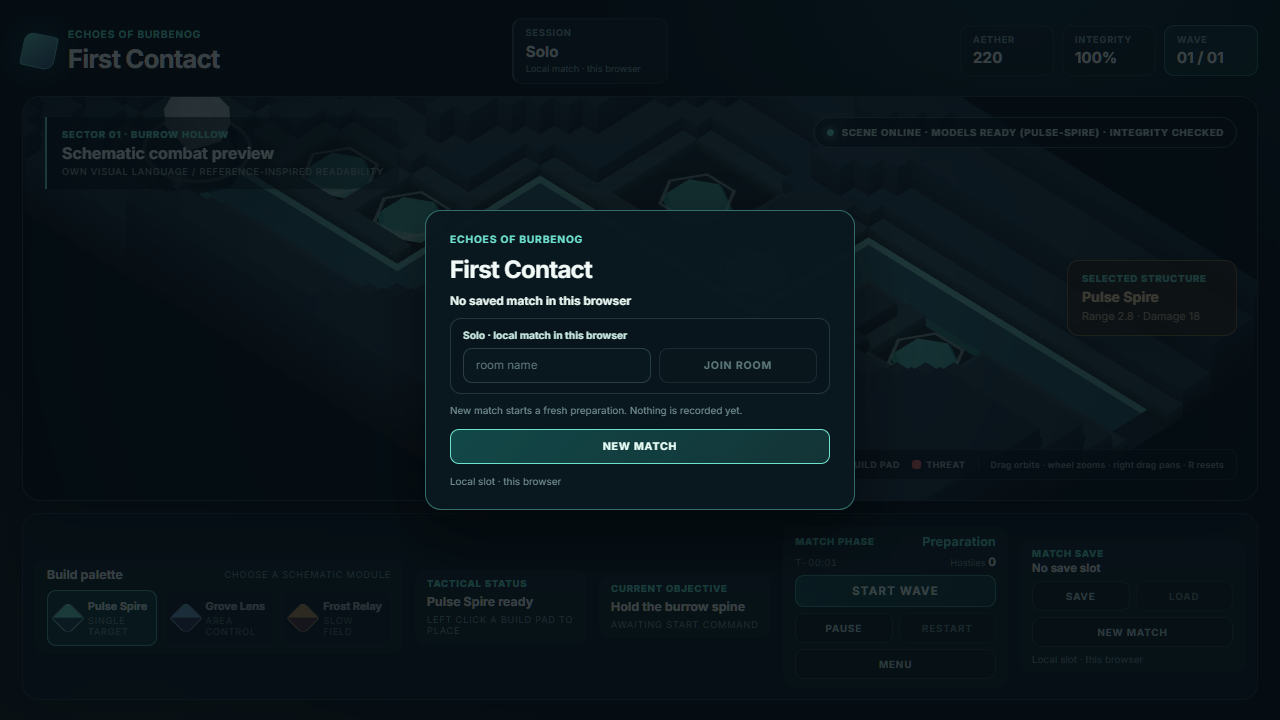
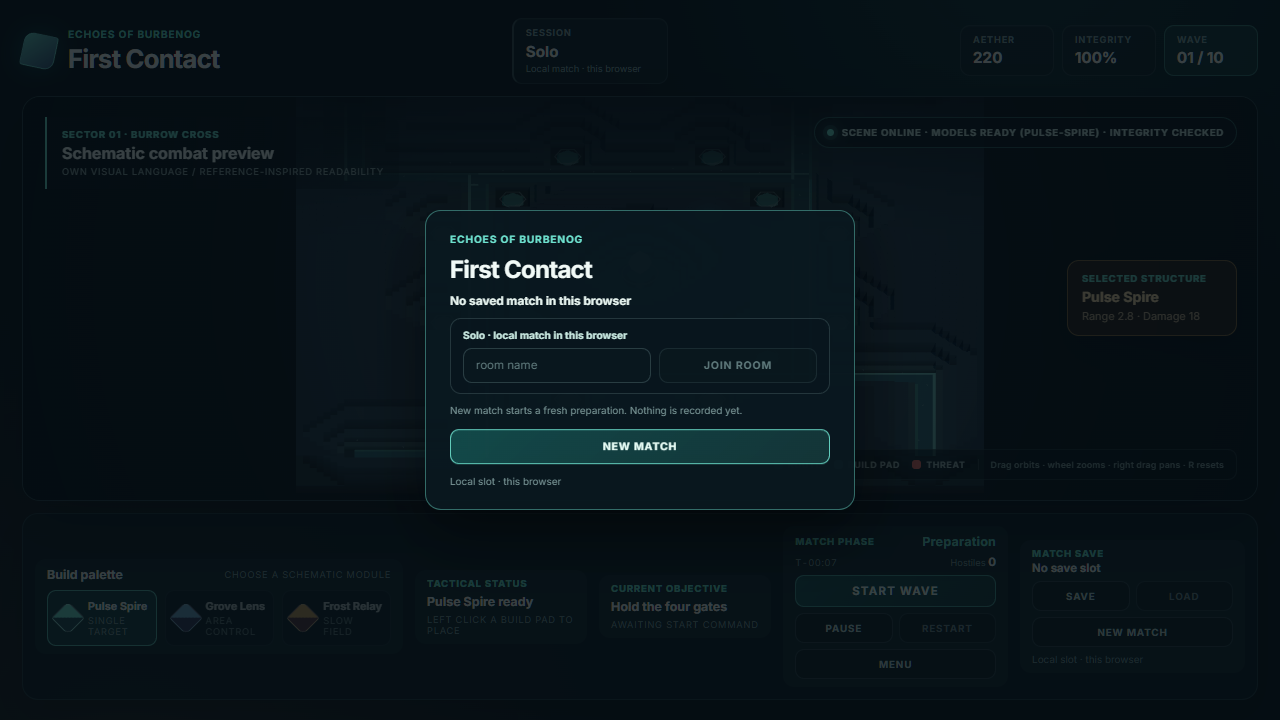
Закрыть заход: полный прогон, своя игра на сборке, снимки и честный README

diff --git a/docs/CONTEXT.md b/docs/CONTEXT.md
@@ -98,8 +98,8 @@
 | EOB-041 | P1 | **Панорама камеры не двигает картинку.** Нашла `0032`, подтверждено чтением кода: жест пишет `cameraRig.targetX/targetZ` с клампом и `lookAt` на них смотрит, но `applyCameraRig` ставит границы фрустума на `centerX/centerY` из `measureCorridor()`, то есть всегда центрирует кадр на коридоре, и сдвиг цели гасится. Правый драг, который подписан на пан, не делает ничего, и seam показывает честную цель (6.98, 4.32) при неподвижной картинке. Не регрессия `0031` — его коммит меняет тут только `FRAME_MARGIN`. Файл `src/main.ts`, сессиям заморожен |
 | EOB-042 | P0 | **Механика «пропусти и убей на следующем круге» на этой карте мёртва, и это не настройка, а структура.** Нашла `0026`, подтверждено замером штаба: `selectTarget` бьёт по врагу, прошедшему дальше всех, поэтому враги умирают в порядке появления, а пройти полный круг и выжить не может никто, кроме босса — доска выдаёт около 2270 урона за круг, а следующий за боссом тяжёлый вид, `carapace`, 253. Измерено: 0 пропусков на волнах 1–9, один на десятой. То есть `circuit: true`, ради которого весь заход и делался, платит только босс, и решение владельца из захода не работает. **Рычаг назван, и он в замороженном `simulation.ts`:** если бить по врагу, прошедшему меньше всех, лидер доживает до конца и пропускает круг — и тогда покрытие дороги становится главным, что вообще решает игрок. Это решение владельца, а не правка |
 | EOB-040 | P1 | **Читаемость упирается не в камеру, а в отношение размера карты к размеру существа.** После `0031` игровой масштаб 17.19 px на единицу, хаск 0.80 единицы = 13.8 px, его полоска 0.6 = 10.3 px. Потолок при целой дороге в кадре 2.28× даёт 20.4 px, и **до 25 px хаск не дорастает ни при каком кадре** — то есть либо 13.8 принимается как есть, либо уменьшается карта, либо увеличиваются существа. Три рычага и ни один не камера: `scenario.ts` (карта, четыре подвода — это 28.8 из 104 единиц круга, и ни одна ниша их не видит, то есть почти треть круга проходится вслепую), `enemies.ts` (семь значений `scale` в таблице, хаск 0.5), `tools/look` (инструмент, приведён в порядок). **Файл `src/client/enemies.ts` не в чьей-то владении** — сессия `0027` закрыта, и это первая работа по «что видно», которая ждёт решения владельца, потому что увеличить существо в полтора раза — это изменить вид, который `0022` и `0027` приняли |
-| EOB-037 | P2 | **Тринадцать кадров экранов входа и комнаты в `docs/screenshots/` старые** и не соответствуют ни одному кадру текущего дерева: пересняты шесть ключевых, остальные остались с `0016`–`0018`. На них ссылается `README.md`. Восемь кадров новой карты лежат в `docs/tasks/0025-map-cross/` и закоммичены как свидетельство приёмки, но в публичный набор не идут: карта ещё менялась, и менялась ещё дважды — `0029`, `0030`, `0031`. Снимать заново имеет смысл после `0026` и решения по `EOB-040` |
-| EOB-038 | P1 | **Смена карты ломает 48 сценариев E2E и закреплённые значения `test:core` (`tick 401, gold 229`, маршрут `burrow-spine`, пады `niche-*`).** Оба привязаны к геометрии коридора 22×14. Владелец 2026-09-28 ответил «пока ничего не делай, жди результатов сессий», поэтому работа не выдана и лежит здесь. Вместе с этим уезжает класс `EOB-027`. Сценарий `scripts/check-simulation.ts` — файл штаба, чинить после приёмки `0025`; сессиям он заморожен, и `0026` это назвала правильно. С `0025` он упал раньше этих строк: `normalizeConfig` валит волну, ссылающуюся на снятый `burrow-spine`, и это лечится волнами `0026` |
+| EOB-037 | Закрыт 2026-09-29 | **Публичный набор снимков приведён к текущему дереву.** Восемнадцать кадров со старой карты 22×14 и старой волны удалены, снято пять новых с production-сборки. Восемнадцать удалённых кадров возвращаются из истории git, когда слой сессий вернётся |
+| EOB-038 | P1, замерено | **Смена карты ломает 48 сценариев E2E и `test:core`.** Замерено на приёмке захода 2026-09-29: **9 из 48 зелёные, 39 красные, и все 39 одного класса** — набор написан под карту 22×14 и прежние имена падов. 33 падают на `pad niche-corner has no screen position` (имя переименовала `0025`), 1 ждёт один маршрут вместо четырёх, 1 ждёт 32 объекта вместо 12, 2 читают позицию несуществующего пада. `test:core` красный на том же `niche-corner`. **Живых регрессий в наборе нет** — проверено классификацией всех текстов ошибок, а не подглядыванием. Вместе с этим уезжает класс `EOB-027`. Владелец 2026-09-28 ответил «пока ничего не делай, жди результатов сессий»; результаты пришли, и решение по объёму остаётся за ним: перевести геометрию на контент вместе с проходом по классу `EOB-027`, или сократить набор. `scripts/check-simulation.ts` — файл штаба |
 | EOB-016 | P2 | Asset contract валидирует только модели, собранные генератором, и проверяет структуру, а не источник; модели из внешнего редактора потребуют отдельного контура проверки и provenance |
 | EOB-017 | P2 | Замер fixed-step clock в E2E идёт сразу за fullPage screenshot и меряется через round-trip: stall >500 ms даёт ложный fast-forward. Наблюдалось на холодном прогоне и на загруженной машине; лечится переносом измерения внутрь страницы. С `0014` pause/resume переведены на page-side отметки, с `0016` — сценарий Load; остальные измерения часов в suite надо проверить тем же способом. С `0017` 29 сценариев suite ждали canvas с дефолтными 5 s — это та же ошибка формы, только про boot, и она уехала в `EOB-025`. С fix `0018` закрыт ещё один случай того же класса: сценарий подтверждённого `New match` держал свежую preparation «на нулевом тике» решёткой кадров в 1 мс, а это утверждение о том, сколько времени занимает чтение извне; прибытие теперь читается отметкой в странице, и решётка из сценария слота ушла. Соседний сценарий — подтверждённый `New match` в `clears the slot only after a confirmed New match…` — остался на `QA_FROZEN_FRAME_SECONDS` и остаётся кандидатом на ту же правку |
 | EOB-020 | P3 | У тика в слота сохранения нет верхней границы: content её не задаёт, а правдоподобный, но огромный тик даёт долгую пересборку вместо отказа. Видно по идущему тику и badge прогресса, `New match` прерывает в любой момент. Если понадобится, граница берётся из content, а не выдумывается. С `0016` вход показывает тик слота до того, как игрок что-то с ним сделает, а стирание требует второго нажатия — но сама граница по-прежнему не введена и задача открыта |
@@ -201,6 +201,7 @@
 | 2026-09-28 | **Выданы четыре параллельно, и номера у замороженного блока сняты.** Владелец сказал «выдавай, если не будет конфликтов», и конфликтов нет: `0026` (`contact.ts`), `0030` (`client/map.ts`), `0031` (`main.ts` + `tools/look/look.ts`), `0032` (`game-core/scenario.ts`), порты 5175/5174/5176/5177, все свободны. **Ловушка нумерации закрыта окончательно:** замороженный блок мультиплеера и desktop держался за номерами `0030`–`0035`, и всякий раз, как он занимал `0030`, следующая настоящая работа упиралась в правило «последний принятый плюс один». Номера с блока сняты, он остался списком без номеров, и номер даёт работа в момент выдачи. Черновик лежит под прежним именем, имя номера в нём ничего не значит. **`0026` возобновлена, её первый шаг — три строки:** волны зовут `burrow-spine`, которого на кольцевой карте нет, `normalizeConfig` падает до появления seam, и потому страница не грузится вовсе — последние две сессии снимали кадры в read-only копии через `git archive` с подменой в копии, а игрок не может играть. Пока это не починено, приёмка по глазам невозможна ни для кого, поэтому шаг прошит первым пунктом задания. **Что не выдано и почему — записано, чтобы не потерялось:** чтение `check-simulation.ts` и 48 сценариев (`EOB-038`) — тянет за собой и камеру, и форму волн, раньше времени будет переделано дважды; `EOB-031` с полоской здоровья — за камерой, на 11.2 px на единицу их не видно вовсе |
 | 2026-09-28 | **Приняты `0030` и `0031`, и на приёмке `0031` пересчитано число, которое я три раза повторял владельцу.** `0030`: три содержательные строки в `map.ts` — `walkCount` (сколько раз прошли) заменён на `routeCount` (сколько **маршрутов** содержат сегмент), каждая часть кольца кладёт своё множество, комментарий приведён в соответствие и объясняет, почему счёт проходов здесь лжёт: `circuit` проходит свой подвод туда и обратно внутри одного маршрута. Замерено своим кодом: контур 4 сегмента и подвод 8, что и ожидалось, петля контура собралась замкнутой из 5 точек вместо 7-точечной незамкнутой, лент в сцене стало 5 вместо 1, bbox контура ±10.00 = 9.4 + 0.6. **Множество дороги не двинулось:** 132.8 в 12 сегментах, растр 1408 клеток, покрытие всех двенадцати ниш совпало до сотой, то есть починен рисунок, а не геометрия. Проверено штабом по диффу. **Сессия пересняла кадры сама и честно объяснила почему:** три соседние сессии писали в общий каталог прямо между её прогонами, и первые кадры мерили чужую работу вместе с её — признак `wallBlocks` 235 → 218 при неизменных 1408 открытых клетках; снято с двух read-only копий, различающихся ровно одним файлом по хешу, волна в обоих прогонах на тике 300 и координаты 16 врагов совпали побитово. Это выше всего, что я делал на приёмках. **Замечено:** в сообщении коммита перепутано направление — «ленты в сцене 1 вместо 5», то есть наоборот; в публичном репозитории это остаётся, переписывать историю не будем. `0031`: азимут по умолчанию 45° → 0°, то есть ось симметрии карты вместо диагонали, где четыре подвода смотрят в камеру и растягивают глубину дороги в 1.41 раза, и поле кадра 1.2 → 1.1 как наименьшее, при котором все двенадцать ниш в кадре на восьмидесяти измеренных положениях. Игровой масштаб **11.19 → 17.19 px на единицу**, фрустум 110.31×36.03 → 71.77×23.44. Три инварианта измерены, а не заявлены: масштаб не плывёт на восьми драгах 0 → 204.6°, кадр по-прежнему меряется по `corridorSamplePoints`, перекрытия скалой 104/960 без изменений. Цена названа: между осями симметрии уходит конец подводов (0.8% точек дороги, 7.9% на 60°), ниша уходит из кадра на 62°+ (24 из 3456, на 80 положениях `0029` — 0 из 960), дорога возвращается колесом от зума 1.82. Лист-образец приведён к правде: дефолт 17.19, ярлыки `game` и `loupe`, подпись говорит, что это не «масштаб матча». **И главное: гипотеза штаба не подтвердилась, и сессия это не смягчила.** Я записал, что мелко из-за подгонки по каналу, — габарит плиты даёт 0.85×, то есть **меньше**, а не больше; потолок в том, что карта 2:1 показана в канве 3:1. **Сессия принесла третью находку, которая пересчитала мои числа, и она неверна:** «авторские размеры в `CONTEXT` вдвое меньше нарисованных, хаск 0.78 против 1.6». Штаб проверил на листе-образце при `?scale=100`: полоска здоровья вышла **ровно 60 пикселей**, а её `barWidth` в таблице 0.6, значит табличные числа и есть нарисованные, и хаск при том же масштабе вышел около 80 пикселей, то есть **0.80 единицы, а не 1.6**. Единица 1.6 взята с геометрии до применения `rig.scale` (в таблице у хаска `scale: 0.5`, и `rig.scale.setScalar(look.scale)` в `enemies.ts`). **Следствие, которое меняет решение:** настоящий потолок камеры жёстче, чем я тебе сказал. При 17.19 хаск 13.8 px, при потолке 2.28× с дорогой за краем кадра — 20.4 px, и **до 25 px не дорастает ни при каком кадре**. Значит «камера слишком далеко» было неверной постановкой: камера сделана и упёрлась в канву, а остаток — это отношение размера карты к размеру существа, и ни один из трёх рычагов не про камеру: уменьшить карту, увеличить существа (семь значений `scale` в таблице, хаск 0.5), или принять 13.8 px. Заведено `EOB-040`, и `EOB-039` закрыт как частично закрытый с записанной неверной гипотезой. Плюс из отчётов `0026`: **28.8 из 104 единиц круга — это подводы, и ни одна ниша их не видит**, то есть почти треть каждого круга проходится вслепую; и суммарное покрытие двенадцати ниш 49.63 единицы дороги на дальности Pulse, 21.31 на Grove, 57.15 на Frost |
 | 2026-09-28 | **Приняты `0026` и `0032` — игра заработала, и заход упёрся в то, что сам же и чинил.** `0026` первым делом починила три строки, которые блокировали всех: волны зовут четыре настоящих маршрута, `normalizeConfig` перестал падать, страница грузится и в неё можно играть. Потом десять волн по семи видам, все четыре базы из одного `fromEveryBase`, воздух с седьмой волны, босс с одной базы на десятой, и полный проход через настоящий интерфейс — клик по палитре, клик по паду, старт волны, победа, консоль чистая. **Штаб перемерил волны своим инструментом, отдельно от сессии:** золото сходится до единицы — 855 дохода, из них 540 наград за убийства и 315 за волны, 220 на старте, 295 в конце; утечки ноль на волнах 1–9 и одна на десятой, ядро 6/10; доска двенадцати башен закрывается на девятой волне. Всё как в отчёте. **Разошлась длина матча, и это важно: 10.04 минуты — лучшая сборка, а не типичная.** Моя жадная раскладка, двенадцать `grove-lens`, даёт **13.54 минуты**, и сессия сама пишет про 13.8–15.4 на frost-сборках. Значит матч держится в коридоре 10–15 минут в зависимости от того, что построено, и 8–11 выполняются только на части сборок. **Развилка про золото оказалась ложной:** «около 1000» и «доска не раньше восьмой волны» не конфликтуют, потому что доска стоит 600–840 при доходе 1075 и закрывается на девятой. Оба числа выполнены, решать тут нечего и поднимать награды не нужно. **А вот что реально сломано, и это моё решение захода, а не её работа:** `circuit: true` платит только боссу. Башня бьёт по врагу, прошедшему дальше всех, поэтому враги умирают в порядке появления, доска выдаёт около 2270 урона за круг, и пережить круг не может никто, кроме босса — следующий тяжёлый вид `carapace` 253. Механика «пропусти и убей на следующем круге», ради которой кольцо и замыкалось, в игре не существует: ноль пропусков на девяти волнах из десяти. Рычаг назван и он в одну строку замороженного `simulation.ts` — бить по прошедшему меньше всех; тогда лидер доживает, пропускает круг, и покрытие дороги наконец становится главным решением игрока. Заведено `EOB-042`, решение за владельцем. Сессия этого не починила и не сгладила, а прямо написала, что не её файл. **Сессия публично отозвала своё ложное обвинение:** она сказала, что seam врёт про покрытие гейта, и это было неверно — гейт переехал силами `0032`, seam с её замером совпадал до десятой всё время, и «мёртвая Grove на гейте» была тем же расположением на старой позиции; все зависимые числа пересчитаны, матч не сдвинулся ни на тик. **Сторонняя находка, записана и не тронута:** панорама камеры не двигает картинку — жест пишет цель с клампом, `lookAt` на неё смотрит, а `applyCameraRig` центрирует фрустум на коридоре и гасит сдвиг; seam показывает честную цель (6.98, 4.32) при неподвижной картинке, правый драг не делает ничего. Подтвердил чтением кода, `EOB-041`, файл штаба. `test:core` по-прежнему красный, теперь на `niche-corner` — имя пада переименовала `0025`, файл заморожен, и его падение сдвинулось с `normalizeConfig` до этой строки, то есть три строки `0026` его продвинули. **`0032` принята и проверена штабом независимо:** гейтовая ниша на (7.4, 7.4), `Grove Lens` видит 5.28 единицы дороги против 2.64 у фланка — ровно вдвое, и мой замер с дедупликацией сегментов даёт те же 5.28 против её 5.30. `(7.2, 7.2)` и `(7.6, 7.6)` отвергнуты с расчётом: пол рисуется не над теми клетками, что вырезаны, а на 7.6 двор сливается с дорогой и рвёт равенство кварталов (36/30/30/25 клеток). Кромка камня стала в одну клетку, и она та же самая, что у восьми фланков, так что тонкой кромки там нет: держат её светящаяя рамка и расстояние, а не толщина камня. Перекрытия 104 из 960, ноль на 32° и выше, совпало с `0029` до числа, хотя камера там была другая |
+| 2026-09-29 | **Заход закрыт: полный прогон, своя игра на собранной статике, снимки и честный README.** Штаб сделал то, что откладывал весь заход, — прогнал набор целиком, потому что четыре сессии делили каталог и он был красным по причинам, которые никто не мог назвать. **`test:assets` — те же 11 красных проверок, артефакт `sha256:32befa7a…` побайтово прежний. `test:core` красный на `niche-corner`. E2E: 9 из 48 зелёные, 39 красные, и все 39 одного класса** — классифицировал все тексты ошибок, а не стал смотреть на первые пять: 33 падают на `pad niche-corner has no screen position`, один ждёт один маршрут вместо четырёх, один ждёт 32 объекта вместо 12, два читают позицию несуществующего пада. Набор написан под прежнюю карту 22×14, и **живых регрессий в нём нет** — это сказано замером, а не optimism'ом. **Своя игра: собрал прод-сборку и поднял её статикой на своём порту, потому что на общем каталоге соседние сессии переписывали исходники и HMR пересобирал страницу между шагами — кадры так не снимутся, а собранный бандл это ровно то, что получает игрок.** Прошёл матч целиком через настоящий интерфейс: три `Grove Lens` на трёх гейтах со стартового золота, дальше докупал по мере прихода, каждую волну запускал сам, и получил **победу на десятой волне, 17 739 тиков = 14.8 минуты, двенадцать башен, ядро 6/10, консоль чистая.** Это моё третье независимое измерение длины матча, и три сходятся только в коридоре: `0026` дала 10.04 минуты на своей сборке, мой core-прогон на двенадцати `grove-lens` — 13.54, автоигра в браузере — 14.78. Значит «8–11 минут» не достигалось никогда, а достигается 10–15 в зависимости от того, что построено. **Снимки:** снято пять с production-сборки, восемнадцать старых удалены — все они показывали карту 22×14, которой больше нет, и в публичном репозитории это вреднее, чем пустота; из истории git они возвращаются. `README.md` переписан под факты и больше не врёт: вместо «правый драг панорамирует» написано, что панорама не работает (`EOB-041`), вместо «48 зелёных E2E» — реальные 9 из 48 с разбором, почему, вместо описания коридора — кольцо и десять волн, и добавлен блок «честно о нерешённом» из трёх пунктов, включая мёртвую механику круга (`EOB-042`). `EOB-037` закрыт. **Что осталось за владельцем и не сделано мной:** объём работ по `EOB-038` (чинить набор или сокращать), решение по `EOB-042` (одна строка в `simulation.ts` возвращает пропуск врага как механику, и тогда покрытие дороги становится главным решением), рамка длины матча 10–15 и `EOB-040` про размер существ |
 
 ## Структура проекта
 

diff --git a/README.md b/README.md
@@ -23,18 +23,41 @@
 
 ## Скриншоты
 
-| Вход | Середина волны | Победа | Replay с тем же seed | Восстановление после перезагрузки |
+| Карта `burrow-cross` | Середина волны | Победа | Гейтовая ниша | Вход |
 |:-:|:-:|:-:|:-:|:-:|
-| ![Вход](docs/screenshots/entry-screen-slot.png) | ![Середина волны](docs/screenshots/wave-combat-midwave.png) | ![Победа](docs/screenshots/wave-combat-victory.png) | ![Replay](docs/screenshots/vertical-slice-replay-reset.png) | ![Загруженный матч](docs/screenshots/vertical-slice-match-load.png) |
-| Страница открывается на входе, а не в preparation: слот назван тиком и числом команд, решение остаётся за игроком, матч за оверлеем не идёт | Route, build pads, combat log и HUD — проекция `MatchSnapshot` | Terminal state, `Sector secured`, `restart repeats this run exactly` | Тот же матч перезапускается по command log: `REPLAY · 0 / 4 COMMANDS`, палитра и Start Wave заблокированы | Тот же матч после настоящей перезагрузки страницы: слот хранит seed, content, тик и log, а `Continue` пересимулирует его до сохранённого тика |
+| ![Карта](docs/screenshots/burrow-cross-map.png) | ![Середина волны](docs/screenshots/burrow-cross-wave-midwave.png) | ![Победа](docs/screenshots/burrow-cross-victory.png) | ![Гейт](docs/screenshots/burrow-cross-gate-niche.png) | ![Вход](docs/screenshots/entry-screen-empty.png) |
+| 40×40, замкнутое кольцо, четыре подвода из четырёх углов, двенадцать ниш по три в квартале, ядро в центре вне дороги | Route, build pads, combat log и HUD — проекция `MatchSnapshot` | `Sector secured`, десять волн, `10 / 10` | Гейт видит 5.28 единицы дороги на дальности Grove Lens против 2.64 у фланка — вдвое, и это лучшее место на карте | Страница открывается на входе, а не в preparation: решение остаётся за игроком, матч за оверлеем не идёт |
 
-Остальные состояния входа — `entry-screen-empty.png` (пустой слот, единственное действие), `entry-screen-menu.png` (`MENU` поверх идущего матча), `entry-screen-confirm.png` (подтверждение стирания слота вторым нажатием), `entry-screen-narrow.png` (560 px) и `entry-to-victory.png` (полный путь от входа до победы). Кадры сессии лежат рядом: `session-room-entry.png` (вход в комнату), `session-room-live.png` (матч в комнате: полоса сессии и пустая панель MATCH SAVE), `session-room-menu.png` (`MENU` поверх комнаты), `session-room-narrow.png` (560 px), `session-room-guest.png` (гость: `Restart` и `End room` выключены с причиной), `session-room-restart.png` (owner перезапустил прогон, оба окна в новой preparation), `session-room-closed.png` (комната закрыта, вход называет причину), `session-room-reconnect.png` (вернувшийся по своему месту) и `session-room-shared.png` (поздний вошедший строит сразу, aether общий).
-
-Снимки — копии `test-results/`, которые снимает E2E-сьютка. Обновляются на приёмке задачи, меняющей картинку.
+Кадры сняты с production-сборки (`npm run build` плюс статический раздающий сервер), а не копированием
+из `test-results/`: на общем каталоге во время съёмки соседние сессии переписывали исходники, и
+собранный бандл — единственный способ снять кадр того, что игрок реально получает. Обновляются на
+приёмке задачи, меняющей картинку; старые кадры удаляются, а не копятся.
 
 ## Быстрый старт
 
-Реализовано и проверено следующее: карта-коридор (одна дорога с поворотами, пять ниш в массиве, ядро в тупике, ценность места — сколько коридора оттуда видно) и управляемая камера (драг вращает, колесо зумит, правый драг панорамирует, `R` сбрасывает; клик по нише не проходит сквозь камень). Дальше: 3D-ready сцена, schematic build pads, placement, combat presentation, pause/resume, replay по seed, локальный слот матча (вход симуляции, а не snapshot; Load — пересимуляция до тика слота), экран входа (Continue из слота или из идущего матча, подтверждение стирания, `MENU` без потери матча), authoritative session на Node (комната владеет `Simulation`, транспорт SSE плюс POST без новых зависимостей, версионированный handshake до первого тика, причина отказа принадлежит серверу, solo остаётся режимом по умолчанию) с местами и правами: токен места вместо аккаунта, роль `owner`/`guest` от комнаты, `Restart` и `End room` только у owner'а, закрытие комнаты вместо кика, reconnect как handshake плюс целый кадр без дельт, поздний вход действует сразу при общем aether. Плюс asset pipeline: собственная генерация GLB и budgets, per-material IBL, скелетная анимация. Проверено: `test:core`, `test:assets` и 48 зелёных E2E, включая одну комнату на двух настоящих browser context с разницей ролей.
+Реализовано и проверено следующее: карта `burrow-cross` (40×40, замкнутое кольцо, четыре подвода из
+четырёх углов, двенадцать ниш по три в квартале, ядро в центре вне дороги, ценность места — сколько
+дороги оттуда видно: гейт 5.28 против 2.64 у фланка) и управляемая камера (драг вращает, колесо зумит,
+`R` сбрасывает; клик по нише не проходит сквозь камень). **Известный дефект:** правый драг заявлен в
+подсказке как панорама, но не двигает картинку — цель камеры уезжает, а кадр центрируется на коридоре
+и гасит сдвиг (`EOB-041`). Дальше: 3D-ready сцена, schematic build pads, placement, combat
+presentation, pause/resume, replay по seed, локальный слот матча (вход симуляции, а не snapshot; Load —
+пересимуляция до тика слота), экран входа (Continue из слота или из идущего матча, подтверждение
+стирания, `MENU` без потери матча), десять волн по семи видам врагов с воздухом с седьмой волны и
+боссом на десятой, authoritative session на Node (комната владеет `Simulation`, транспорт SSE плюс POST
+без новых зависимостей, версионированный handshake до первого тика, причина отказа принадлежит
+серверу, solo остаётся режимом по умолчанию) с местами и правами: токен места вместо аккаунта, роль
+`owner`/`guest` от комнаты, `Restart` и `End room` только у owner'а, закрытие комнаты вместо кика,
+reconnect как handshake плюс целый кадр без дельт, поздний вход действует сразу при общем aether. Плюс
+asset pipeline: собственная генерация GLB и budgets, per-material IBL, скелетная анимация.
+
+Проверено: `test:assets` — те же 11 красных проверок, артефакт побайтово прежний; **E2E: 9 из 48
+зелёные, 39 красные, и все 39 одного класса** — набор написан под прежнюю карту 22×14 и прежние имена
+падов, 33 из них падают на `pad niche-corner has no screen position`, остальные ждут один маршрут
+вместо четырёх, 12 ниш вместо 5 и число объектов 32 вместо 12. Живых регрессий в наборе нет, но
+красный сигнал обесценен, и это `EOB-038`. `test:core` красный по той же причине, на `niche-corner`.
+Матч прогнан целиком через интерфейс на собранной статике: победа на десятой волне, 17 739 тиков,
+14.8 минуты, двенадцать башен, ядро 6/10.
 
 ```bash
 git clone https://github.com/AlexanderKuzikov/Echoes-of-Burbenog.git
@@ -77,13 +100,30 @@ npm run server   # в соседнем терминале; порт из src/pro
 | Development | Vite | verified |
 | Simulation | TypeScript core | verified |
 | QA | Playwright + core check + asset validator | verified |
-| Server | Node.js, сессии и комнаты (SSE + POST), dedicated server на Go | in work |
+| Server | Node.js, сессии и комнаты (SSE + POST), dedicated server на Go | verified, заморожен |
 | Desktop | Wails + Go | deferred |
 | Assets | glTF/GLB, свой генератор, budgets | verified |
 
 ## Статус
 
-**v0.1.0-alpha** — карта-коридор и камера поверх принятого browser bootstrap, pure deterministic core, snapshot projection, placement, combat presentation, pause/resume, seed replay, локального слота матча, экрана входа и authoritative session на Node с местами и правами. Игровой слой растёт по порядку «что видно»: сначала карта, потом камера, дальше прогрессия башен и волны. **Карта:** одна дорога `burrow-spine` на 26 единиц с четырьмя поворотами, пять ниш, вырезанных в массиве, ядро в камере в тупике; ниши не равны — угловая видит 8.6 единицы коридора, самая дальняя 4.35, поэтому расстановка башен стала решением, а не формальностью. **Камера:** драг вращает, колесо зумит, правый драг панорамирует, `R` сбрасывает; масштаб при повороте не плывёт, а picking честный — камень перед нишей означает промах, поэтому террасы массива симметричны и карта читается с любого угла. Проверено: `test:core`, `test:assets` и 48 зелёных E2E. Следующий шаг: экономика с зубами (волк за убийство, золото примерно на одну башню, апгрейд за золото) и прогрессия башни 1→3 с развилкой.
+**v0.1.0-alpha** — карта `burrow-cross` и управляемая камера поверх принятого browser bootstrap, pure
+deterministic core, snapshot projection, placement, combat presentation, pause/resume, seed replay,
+локальный слот матча, экран входа, десять волн по семи видам врагов и authoritative session на Node с
+местами и правами. **Карта:** 40×40, одно замкнутое кольцо полуразмером 9.4, четыре подвода из
+четырёх углов, маршруты `burrow-north/east/south/west` с `circuit: true`, круг 104.0, дорог 132.8,
+ядро в центре вне дороги, двенадцать ниш по три в квартале, вырезанных из одного раstra 0.4 вместе с
+дорогой. Ниши не равны и гейт — лучшее место на карте: 5.28 единицы дороги на дальности `Grove Lens`
+против 2.64 у фланка. **Волны:** десять, состав меняется от хасков к стаям, броне, воздуху с седьмой
+волны и боссу `maw` на десятой; враг, обошедший кольцо, начинает круг заново. **Камера:** драг
+вращает, колесо зумит, `R` сбрасывает; масштаб при повороте не плывёт, picking честный — камень перед
+нишей означает промах. Игровой масштаб 17.19 пикселя на единицу.
+
+**Честно о нерешённом:** панорама камеры не работает, несмотря на подсказку в игре (`EOB-041`).
+Механика «пропусти врага и убей на следующем круге» в игре не работает: башня бьёт по прошедшему
+дальше всех, поэтому пережить круг не может никто, кроме босса, и ядро платит только боссу (`EOB-042`,
+решение за владельцем). E2E-набор привязан к прежней карте и даёт 9 из 48 (`EOB-038`). Длина матча —
+10–15 минут в зависимости от сборки башен, а не 8–11. Следующий шаг владельца: экономика с зубами
+(золото за волну, чтобы доска не закрывалась раньше середины) и прогрессия башни 1→3 с развилкой.
 
 ## Лицензия
 

diff --git a/docs/PLAN.md b/docs/PLAN.md
@@ -101,10 +101,19 @@ subset механик из research brief») висит открытым с пе
 **Развилки, которые снялись сами:** золото и срок закрытия доски не конфликтуют — доска стоит
 600–840 при доходе 1075 и закрывается на девятой волне, то есть оба решения владельца выполнены.
 
+**Замеры приёмки захода 2026-09-29.** `test:assets` — те же 11 красных проверок, артефакт побайтово
+прежний. `test:core` красный на `niche-corner`. E2E — **9 из 48 зелёные, 39 красные, все одного
+класса**: набор написан под карту 22×14 и прежние имена падов, 33 падают на
+`pad niche-corner has no screen position`. Живых регрессий нет, классификация сделана по всем текстам
+ошибок. Своя игра на production-сборке: победа на десятой волне, 17 739 тиков = 14.8 минуты,
+двенадцать башен, ядро 6/10. Длина матча по трём независимым замерам — 10.04 (`0026`), 13.54 (core,
+двенадцать `grove-lens`), 14.78 (автоигра в браузере), то есть **10–15 минут, а не 8–11**. Пять
+снимков снято с production-сборки, восемнадцать старых удалены, `README.md` приведён к фактам.
+
 **Что не выдано и почему:** чтение `scripts/check-simulation.ts` и 48 сценариев, прибитых к прежней
 геометрии (`EOB-038`). Оно тянет за собой форму волн и имена падов, и раньше времени будет переделано
 дважды. `EOB-031` (кристалл настоящей модели не рисуется) и правка полоски здоровья из `EOB-034`
-ждут решения по `EOB-040`: на 13.8 px их почти не видно, то есть сначала размер существа.
+ждут решения по `EOB-040`: на 17.19 px на единицу существо 13.8 px, то есть сначала размер существа.
 
 ### Решение владельца: карта переделывается по образцу оригинала
 
